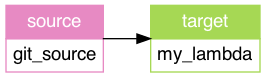
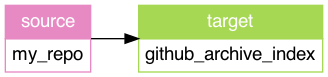
fix til getting started issues

Changed region(s): [[0.0, 0.0519, 0.9962, 0.961], [0.634, 0.1818, 0.8755, 0.4156]]

diff --git a/docs/guides/tilgettingstarted.md b/docs/guides/tilgettingstarted.md
@@ -1,4 +1,4 @@
-The TriggerMesh Integration Language (TIL) is a configuration language based on the [HCL syntax](hcl-spec) which purpose is to provide a user-friendly interface for describing [TriggerMesh Bridges]().
+The TriggerMesh Integration Language (TIL) is a configuration language based on the [HCL syntax][hcl-spec] which purpose is to provide a user-friendly interface for describing [TriggerMesh Bridges][tm-brg].
 
 !!! info "Use TIL with the TriggerMesh Platform"
     The TriggerMesh Integration Language is easily usable with the `til` CLI which helps you generate the manifests describing your event-driven application. It is the perfect companion to the TriggerMesh controller. Go to the [complete documentation](../til/Introduction.md) for the detailed specification.
@@ -11,7 +11,7 @@ Download the CLI from the GitHub [release page](https://github.com/triggermesh/t
 wget https://github.com/triggermesh/til/releases/download/v0.1.0/til_v0.1.0_linux_amd64
 ```
 
-Put it in your PATH and make the binary executable
+Put it in your `PATH` and make the binary executable.
 
 ```console
 mv til_v0.1.0_linux_amd64 /usr/local/bin/til
@@ -39,93 +39,105 @@ For the complete usage reference go to the [TIL documentation](../til/Introducti
 
 With the `til` CLI installed you are ready to write your first Bridge.
 
-In this guide we take the simple example of a point to point conection between a GitHub repository and an AWS Lambda function. This assumes:
+In this guide we take the simple example of a point to point conection between a GitHub repository and a Splunk index. This assumes:
 
-* We are using a sample repository on Github called `sebgoa/transform`. Pick one that you have access to
-* We are using a GitHub token stored as a Kubernetes secret called `my-github-secret`
-* We are using AWS IAM credentials stored as a Kubernettes secret called `my-aws-access-keys`
-* We are using an AWS Lambda function called `github-processing` as our Target.
-* We want to receive all events related to `issues` in our repository.
+* We are using a sample repository on Github called `triggermesh/bridges`. Pick one that you have access to
+* We are using a GitHub token stored as a Kubernetes secret called `github-source-tokens`, see the [GitHub secret class](../til/Secret-References.md#github-secret-class) for details.
+* We are using Splunk credentials stored as a Kubernettes secret called `my_splunk_credentials`, see the [Splunk secret class](../til/Secret-References.md#splunk_hec-secret-class) for details.
 
-Using the TIL syntax you write this point to point connection in a file called `til-demo.tf` as is:
+* We want to receive all events related to `push` and `pull_requests` actions in our repository.
 
-```
-source "github" "git_source" {
-  owner_and_repository = "sebgoa/transform"
-  event_types = ["issues"]
-  tokens = secret_name("my-github-secret")
+Using the TIL syntax you write this point to point connection in a file called `til-demo.brg.hcl` as is:
 
-  to = target.my_lambda
+```hcl
+bridge "github_to_splunk" { }
+
+/* Event source block 
+   Sources events from a GitHub repository
+*/
+source github "my_repo" {
+  owner_and_repository = "triggermesh/bridges"
+  tokens = secret_name("github-source-tokens")
+
+  event_types = [
+    "push", 
+    "pull_request",
+  ]
+
+  to = target.github_archive_index
 }
 
-target aws_lambda "my_lambda" {
-  arn = "arn:aws:lambda:us-east-1:123456789:function:github-processing"
-  credentials = secret_name("my-aws-access-keys")
+/* Event target block 
+   Receives events and stores them into a Splunk index
+*/
+target splunk "github_archive_index" {
+  endpoint = "https://prd-x-12345.splunkcloud.com"
+  auth = secret_name("my-splunk-credentials")
+
+  index = "github_events"
 }
 ```
 
 To generate the manifest in YAML you issue the following command:
 
 ```console
-$ til generate til-demo.tf --yaml
+til generate ../til-demo.brg.hcl --yaml
 apiVersion: targets.triggermesh.io/v1alpha1
-kind: AWSLambdaTarget
+kind: SplunkTarget
 metadata:
   labels:
-    bridges.triggermesh.io/id: til_generated
-  name: my-lambda
+    bridges.triggermesh.io/id: github_to_splunk
+  name: github-archive-index
 spec:
-  arn: arn:aws:lambda:us-east-1:123456789:function:github-processing
-  awsApiKey:
-    secretKeyRef:
-      key: access_key_id
-      name: my-aws-access-keys
-  awsApiSecret:
-    secretKeyRef:
-      key: secret_access_key
-      name: my-aws-access-keys
+  endpoint: https://prd-x-12345.splunkcloud.com
+  index: github_events
+  token:
+    valueFromSecret:
+      key: hec_token
+      name: my-splunk-credentials
 ---
 apiVersion: sources.knative.dev/v1alpha1
 kind: GitHubSource
 metadata:
   labels:
-    bridges.triggermesh.io/id: til_generated
-  name: git-source
+    bridges.triggermesh.io/id: github_to_splunk
+  name: my-repo
 spec:
   accessToken:
     secretKeyRef:
       key: access_token
-      name: my-github-secret
+      name: github-source-tokens
   eventTypes:
-  - issues
-  ownerAndRepository: sebgoa/transform
+  - push
+  - pull_request
+  ownerAndRepository: triggermesh/bridges
   secretToken:
     secretKeyRef:
       key: webhook_secret
-      name: my-github-secret
+      name: github-source-tokens
   sink:
     ref:
       apiVersion: targets.triggermesh.io/v1alpha1
-      kind: AWSLambdaTarget
-      name: my-lambda
+      kind: SplunkTarget
+      name: github-archive-index
 ```
 
-With these manifests ready you can deploy them easily. For example using [kapp]()
+With these manifests ready you can deploy them easily. For example using [kapp](https://carvel.dev/kapp/)
 
 !!! info "Deployment options for TIL"
-    TIL is a specification language and a CLI to help you author Kubernetes objects. It does not dictate how you deploy your Bridge. As suh you can choose `helm`, `kapp` or simply `kubectl`. Check the deployment [samples](../til/Helm.md)
+    TIL is a specification language and a CLI to help you author Kubernetes objects. It does not dictate how you deploy your Bridge. As suh you can choose `helm`, `kapp` or simply `kubectl`. Check the deployment [samples](../til/Introduction.md#deployment)
 
 ## Generate the diagram of your event flow
 
 If you want to generate a diagram of your flow, you can create a so-called dot file using `til`.
 
 ```console
-til graph til-demo.tf > til-demo.dot
+til graph til-demo.brg.hcl > til-demo.dot
 dot -Tpng til-demo.dot > til-demo.png
 ```
 
 !!! info
-    To visualize your event flow you can install [Graphviz](https://graphviz.org/) on your local machine or use the [on-line viewer](https://dreampuf.github.io/GraphvizOnline)
+    To visualize your event flow you can install [Graphviz](https://graphviz.org/) on your local machine or use the [on-line viewer](http://magjac.com/graphviz-visual-editor/)
 
 The PNG file created will look like the one below.
 
